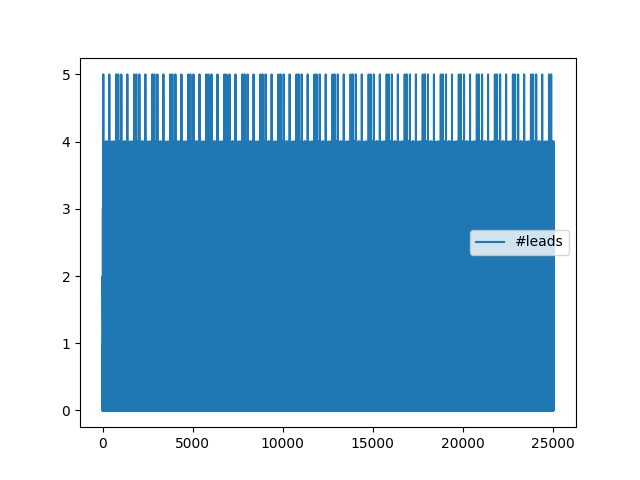
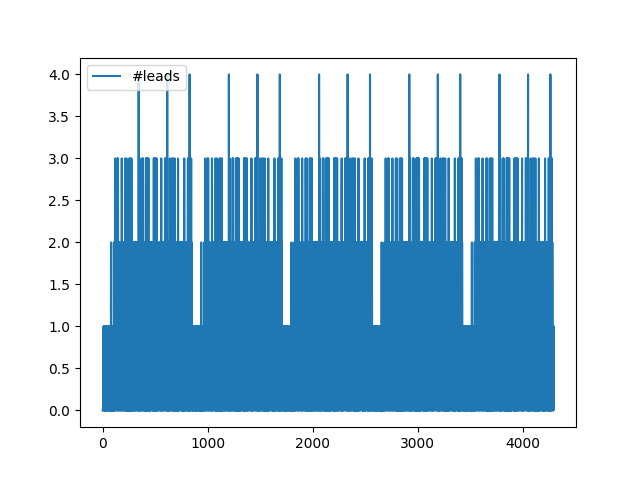
fix output files concatenation with comma separtor

diff --git a/lottery.py b/lottery.py
@@ -1,4 +1,5 @@
 from utils import *
+from pid import PID
 import matplotlib.pyplot as plt
 from tqdm import tqdm
 
@@ -50,113 +51,10 @@ class Darkie:
         self.finalized_stake=self.stake
 
     def write(self):
-        self.pid.write("f"+str(self.id)+str("_")+str(self.stake)+".hist")
+        f_val_file = "f"+str(self.id)+str("_")+str(self.stake)+".hist"
+        lead_file = "leads"+str(self.id)+str("_")+str(self.stake)+".hist"
+        self.pid.write(lead_file, f_val_file)
 
-class PID:
-    def __init__(self, kp=0, ki=0, kd=0, dt=1, target=1, Kc=0, Ti=0, Td=0, Ts=0, debug=False):
-        self.Kp = kp # discrete pid kp
-        self.Ki = ki # discrete pid ki
-        self.Kd = kd # discrete pid kd
-        self.T = dt # discrete pid frequency time.
-        self.Ti = Ti # takahashi ti
-        self.Td = Td # takahashi td
-        self.Ts = Ts # takahashi ts
-        self.Kc = Kc # takahashi kc
-        self.target = target # pid set point
-        self.prev_feedback = 0
-        self.feedback_hist = [0, 0]
-        self.f_hist = [0]
-        self.error_hist = [0, 0]
-        self.debug=debug
-
-    def pid(self, feedback):
-        ret =  (self.Kp * self.proportional(feedback)) + (self.Ki * self.integral(feedback)) + (self.Kd * self.derivative(feedback))
-        self.feedback_hist+=[feedback]
-        self.prev_feedback=feedback
-        return ret
-
-    def discrete_pid(self, feedback, debug=True):
-        k1 = self.Kp + self.Ki + self.Kd
-        k2 = -1 * self.Kp -2 * self.Kd
-        k3 = self.Kd
-        err = self.proportional(feedback)
-        #if debug:
-            #print("pid::f-1: {}".format(self.f_hist[-1]))
-            #print("pid::err: {}".format(err))
-            #print("pid::err-1: {}".format(self.error_hist[-1]))
-            #print("pid::err-2: {}".format(self.error_hist[-2]))
-            #print("pid::k1: {}".format(k1))
-            #print("pid::k2: {}".format(k2))
-            #print("pid::k3: {}".format(k3))
-        ret = self.f_hist[-1] + k1 * err + k2 * self.error_hist[-1] + k3 * self.error_hist[-2]
-
-        self.error_hist+=[err]
-        self.feedback_hist+=[feedback]
-        return ret
-
-    def takahashi(self, feedback, debug=True):
-        err = self.proportional(feedback)
-        ret = self.f_hist[-1] + self.Kc * (self.feedback_hist[-1] - feedback + self.Ts * err/ self.Ti +  self.Td / self.Ts * (2*self.feedback_hist[-1] - feedback  - self.feedback_hist[-2]))
-        self.error_hist+=[err]
-        self.feedback_hist+=[feedback]
-        return ret
-
-    def pid_clipped(self, feedback, controller=CONTROLLER_TYPE_DISCRETE, debug=True):
-        pid_value = None
-        if controller == CONTROLLER_TYPE_TAKAHASHI:
-            pid_value = self.takahashi(feedback, debug)
-        elif controller == CONTROLLER_TYPE_DISCRETE:
-            pid_value = self.discrete_pid(feedback, debug)
-        else:
-            pid_value = self.pid(feedback)
-
-
-        if pid_value <= 0.0:
-            pid_value = F_MIN
-        elif pid_value >= 1:
-            pid_value =  F_MAX
-        if self.integral(feedback) == 0 and len(self.feedback_hist) >=3 and self.feedback_hist[-1] == 0 and self.feedback_hist[-2] == 0 and self.feedback_hist[-3] == 0:
-            pid_value = math.pow(0.9, self.zero_lead_hist())
-        self.f_hist+=[pid_value]
-        return pid_value
-
-    def zero_lead_hist(self):
-        count = 0
-        L = len(self.feedback_hist)
-        for i in range(0,L):
-            if self.feedback_hist[L-(i+1)]==0:
-                count+=1
-            else:
-                return count
-        return count
-
-    def error(self, feedback):
-        return self.target - feedback
-
-    def proportional(self,  feedback):
-        return self.error(feedback)
-
-    def integral(self, feedback):
-        return sum(self.feedback_hist[-10:]) + feedback
-
-    def derivative(self, feedback):
-        return (self.error(self.prev_feedback) - self.error(feedback)) / self.T
-
-    def write(self, f_hist_file):
-        if len(self.feedback_hist)==0:
-            return
-        buf = ''
-        buf+=str(self.feedback_hist[0])
-        buf+=','
-        for i in self.feedback_hist[1:-1]:
-            buf+=str(i)+','
-        if len(self.feedback_hist)>1:
-            buf+=str(self.feedback_hist[-1])
-        with open(f_hist_file, "w+") as f:
-            f.write(buf)
-
-    def acc(self):
-        return sum(np.array(self.feedback_hist)==1)/float(len(self.feedback_hist))
 
 class DarkfiTable:
     def __init__(self, airdrop, running_time):
@@ -181,12 +79,14 @@ class DarkfiTable:
                 if darkie_won:
                     self.darkies[i].update_stake()
                     winners+=darkie_won
+            
             if winners==1:
                 self.Sigma+=REWARD
                 for i, darkie in enumerate(self.darkies):
                     if self.darkies[i].state.won:
                         self.darkies[i].finalize_stake()
             feedback = winners
+            assert (feedback <= len(self.darkies))
             self.leads_hist += [feedback]
             count += 1
         return sum([darkie.pid.acc() for darkie in self.darkies])/len(self.darkies)
@@ -194,9 +94,3 @@ class DarkfiTable:
     def write(self):
         for darkie in self.darkies:
             darkie.write()
-        with open("leads.hist", 'w+') as file:
-            buf = ''
-            for leads in self.leads_hist:
-                line=str(leads)+','
-                buf+=line
-            file.write(buf)

diff --git a/pid.py b/pid.py
@@ -1,0 +1,124 @@
+from utils import *
+
+class PID:
+    def __init__(self, kp=0, ki=0, kd=0, dt=1, target=1, Kc=0, Ti=0, Td=0, Ts=0, debug=False):
+        self.Kp = kp # discrete pid kp
+        self.Ki = ki # discrete pid ki
+        self.Kd = kd # discrete pid kd
+        self.T = dt # discrete pid frequency time.
+        self.Ti = Ti # takahashi ti
+        self.Td = Td # takahashi td
+        self.Ts = Ts # takahashi ts
+        self.Kc = Kc # takahashi kc
+        self.target = target # pid set point
+        self.prev_feedback = 0
+        self.feedback_hist = [0, 0]
+        self.f_hist = [0]
+        self.error_hist = [0, 0]
+        self.debug=debug
+
+    def pid(self, feedback):
+        ret =  (self.Kp * self.proportional(feedback)) + (self.Ki * self.integral(feedback)) + (self.Kd * self.derivative(feedback))
+        self.feedback_hist+=[feedback]
+        self.prev_feedback=feedback
+        return ret
+
+    def discrete_pid(self, feedback, debug=True):
+        k1 = self.Kp + self.Ki + self.Kd
+        k2 = -1 * self.Kp -2 * self.Kd
+        k3 = self.Kd
+        err = self.proportional(feedback)
+        #if debug:
+            #print("pid::f-1: {}".format(self.f_hist[-1]))
+            #print("pid::err: {}".format(err))
+            #print("pid::err-1: {}".format(self.error_hist[-1]))
+            #print("pid::err-2: {}".format(self.error_hist[-2]))
+            #print("pid::k1: {}".format(k1))
+            #print("pid::k2: {}".format(k2))
+            #print("pid::k3: {}".format(k3))
+        ret = self.f_hist[-1] + k1 * err + k2 * self.error_hist[-1] + k3 * self.error_hist[-2]
+
+        self.error_hist+=[err]
+        self.feedback_hist+=[feedback]
+        return ret
+
+    def takahashi(self, feedback, debug=True):
+        err = self.proportional(feedback)
+        ret = self.f_hist[-1] + self.Kc * (self.feedback_hist[-1] - feedback + self.Ts * err/ self.Ti +  self.Td / self.Ts * (2*self.feedback_hist[-1] - feedback  - self.feedback_hist[-2]))
+        self.error_hist+=[err]
+        self.feedback_hist+=[feedback]
+        return ret
+
+    def pid_clipped(self, feedback, controller=CONTROLLER_TYPE_DISCRETE, debug=True):
+        pid_value = None
+        if controller == CONTROLLER_TYPE_TAKAHASHI:
+            pid_value = self.takahashi(feedback, debug)
+        elif controller == CONTROLLER_TYPE_DISCRETE:
+            pid_value = self.discrete_pid(feedback, debug)
+        else:
+            pid_value = self.pid(feedback)
+
+
+        if pid_value <= 0.0:
+            pid_value = F_MIN
+        elif pid_value >= 1:
+            pid_value =  F_MAX
+        if self.integral(feedback) == 0 and len(self.feedback_hist) >=3 and self.feedback_hist[-1] == 0 and self.feedback_hist[-2] == 0 and self.feedback_hist[-3] == 0:
+            pid_value = math.pow(0.9, self.zero_lead_hist())
+        self.f_hist+=[pid_value]
+        return pid_value
+
+    def zero_lead_hist(self):
+        count = 0
+        L = len(self.feedback_hist)
+        for i in range(0,L):
+            if self.feedback_hist[L-(i+1)]==0:
+                count+=1
+            else:
+                return count
+        return count
+
+    def error(self, feedback):
+        return self.target - feedback
+
+    def proportional(self,  feedback):
+        return self.error(feedback)
+
+    def integral(self, feedback):
+        return sum(self.feedback_hist[-10:]) + feedback
+
+    def derivative(self, feedback):
+        return (self.error(self.prev_feedback) - self.error(feedback)) / self.T
+
+    def write_feedback(self, lead_hist_file):
+        if len(self.feedback_hist)==0:
+            return
+        buf = ''
+        buf+=str(self.feedback_hist[0])
+        buf+=','
+        for i in self.feedback_hist[1:]:
+            buf+=str(i)+','
+        #if len(self.feedback_hist)>1:
+            #buf+=str(self.feedback_hist[-1])
+        with open(lead_hist_file, "w+") as f:
+            f.write(buf)
+
+    def write_fval(self, f_hist_file):
+        if len(self.f_hist)==0:
+            return
+        buf = ''
+        buf+=str(self.f_hist[0])
+        buf+=','
+        for i in self.f_hist[1:]:
+            buf+=str(i)+','
+        #if len(self.f_hist)>1:
+            #buf+=str(self.f_hist[-1])
+        with open(f_hist_file, "w+") as f:
+            f.write(buf)
+
+    def write(self, lead_hist_file, f_hist_file):
+        self.write_feedback(lead_hist_file)
+        self.write_fval(f_hist_file)
+
+    def acc(self):
+        return sum(np.array(self.feedback_hist)==1)/float(len(self.feedback_hist))

diff --git a/main.py b/main.py
@@ -30,14 +30,7 @@ rand_running_time = True if rand_running_time_str.lower()=="y" else False
 debug_str = input("debug mode (y/n):")
 debug = True if debug_str.lower()=="y" else False
 
-    
-def single_runtime(dt, darkie_accs, controller=CONTROLLER_TYPE_DISCRETE, kp=0, ki=0, kd=0):
-    darkie = Darkie(controller, 0, kp=kp, ki=ki, kd=kd)
-    dt.add_darkie(darkie)
-    darkie_acc = dt.background(rand_running_time)
-    darkie_accs+=[darkie_acc]
-
-def experiment(threads, accs, controller=CONTROLLER_TYPE_DISCRETE, kp=0, ki=0, kd=0):
+def experiment(accs, controller=CONTROLLER_TYPE_DISCRETE, kp=0, ki=0, kd=0):
     dt = DarkfiTable(0, RUNNING_TIME)
     darkie_accs = []
     #sum_airdrops = 0
@@ -54,22 +47,16 @@ def experiment(threads, accs, controller=CONTROLLER_TYPE_DISCRETE, kp=0, ki=0, k
                 #continue
             #darkie_airdrop = random.randrange(1, remaining_stake)
         #sum_airdrops += darkie_airdrop
-        thread = Thread(target=single_runtime, args=(dt, darkie_accs, controller, kp, ki, kd))
-        thread.start()
-        threads += [thread]
-    for thread in threads:
-        thread.join()
+        darkie = Darkie(controller, 0, kp=kp, ki=ki, kd=kd)
+        dt.add_darkie(darkie)
+        darkie_acc = dt.background(rand_running_time)
+        darkie_accs+=[darkie_acc]
     acc = sum(darkie_accs)/(float(len(darkie_accs))+EPSILON)
     accs+=[acc]
-
-
-#dt = DarkfiTable(0, RUNNING_TIME)
-#darkie_accs = []
 
 accuracy = []
 if __name__ == "__main__":
     # kp
-    
     for kp in tqdm(np.arange(KP_SEARCH_START, KP_SEARCH_END, KP_STEP)):
         # ki
         for ki in np.arange(KI_SEARCH_START, KI_SEARCH_END, KI_STEP):
@@ -79,7 +66,7 @@ if __name__ == "__main__":
                 experiment_accs = []
                 exp_threads = []
                 for i in range(0, AVG_LEN):
-                    exp_thread = Thread(target=experiment, args=(exp_threads, experiment_accs, CONTROLLER_TYPE_DISCRETE, kp, ki, kd))
+                    exp_thread = Thread(target=experiment, args=[experiment_accs, CONTROLLER_TYPE_DISCRETE, kp, ki, kd])
                     exp_thread.start()
                 for thread in exp_threads:
                     thread.join()

diff --git a/instance.py b/instance.py
@@ -1,18 +1,18 @@
 from lottery import *
 import os
 
-os.system("rm f[0-9]*")
+os.system("rm f[0-9]*; rm leads[0-9]*; rm f.hist; rm leads.hist")
 
 RUNNING_TIME = int(input("running time:"))
 
 
 if __name__ == "__main__":
     darkies = []
-    #darkies += [Darkie(CONTROLLER_TYPE_DISCRETE, random.randint(0,1000), id=i, kp=0.18, ki=0.02, kd=-0.1) for i in range(2)]
-    darkies += [Darkie(CONTROLLER_TYPE_DISCRETE, 0, id=id+len(darkies), kp=0.18, ki=0.02, kd=-0.1) for id in range(random.randint(1,100))]
+    darkies += [Darkie(CONTROLLER_TYPE_DISCRETE, 0, id=id+len(darkies), kp=0.18, ki=0.02, kd=-0.1) for id in range(5)] #random.randint(1,20)
     airdrop = 0
     for darkie in darkies:
         airdrop+=darkie.stake
+    print("network airdrop: {} on {} nodes".format(airdrop, len(darkies)))
     dt = DarkfiTable(airdrop, RUNNING_TIME)
     for darkie in darkies:
         dt.add_darkie(darkie)

diff --git a/draw.py b/draw.py
@@ -2,9 +2,11 @@ import matplotlib.pyplot as plt
 import numpy as np
 import os
 
-os.system("rm f.hist; cat f[0-9]* > f.hist")
-LEAD_FILE = "f.hist"
-F_FILE = "leads.hist"
+os.system("cat f[0-9]* > f.hist")
+os.system("cat leads[0-9]* > leads.hist")
+
+LEAD_FILE = "leads.hist"
+F_FILE = "f.hist"
 
 LEAD_PROCESSED_IMG = "lead_history_processed.png"
 F_PROCESSED_IMG = "f_history_processed.png"
@@ -23,6 +25,7 @@ with open(LEAD_FILE) as f:
     plt.plot(node_log)
     plt.legend(['#leads'])
     plt.savefig(LEAD_PROCESSED_IMG)
+
 
 with open(F_FILE) as f:
     buf = f.read()
